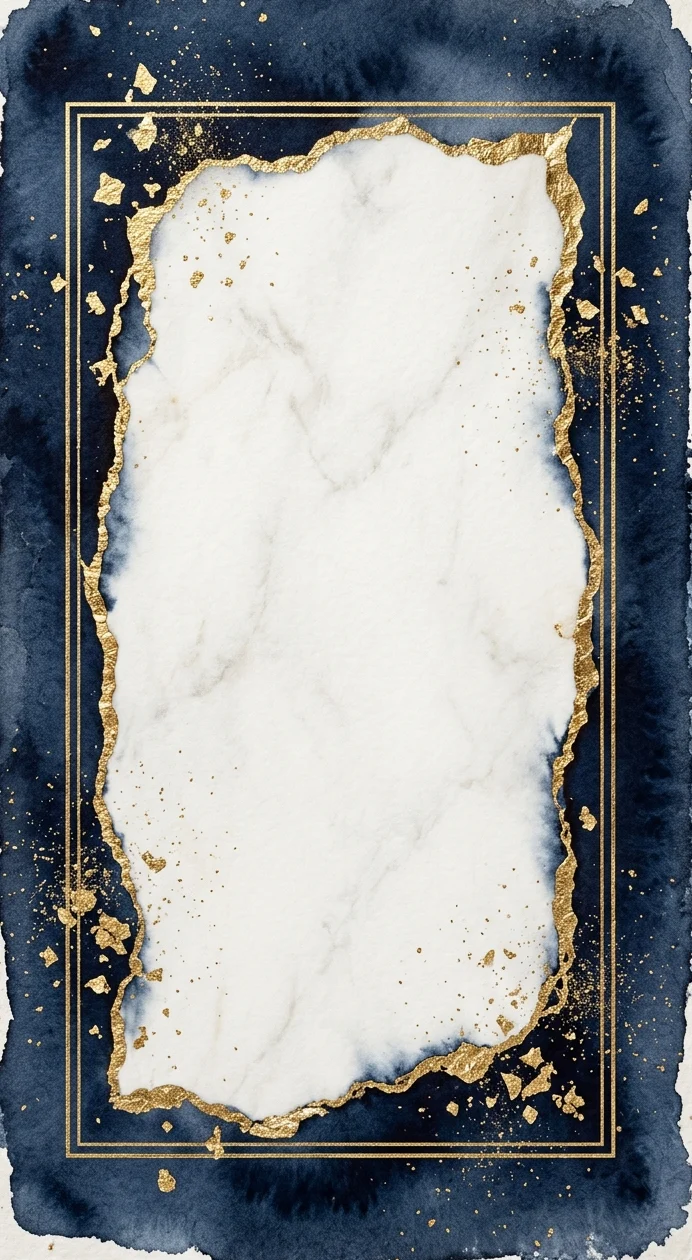
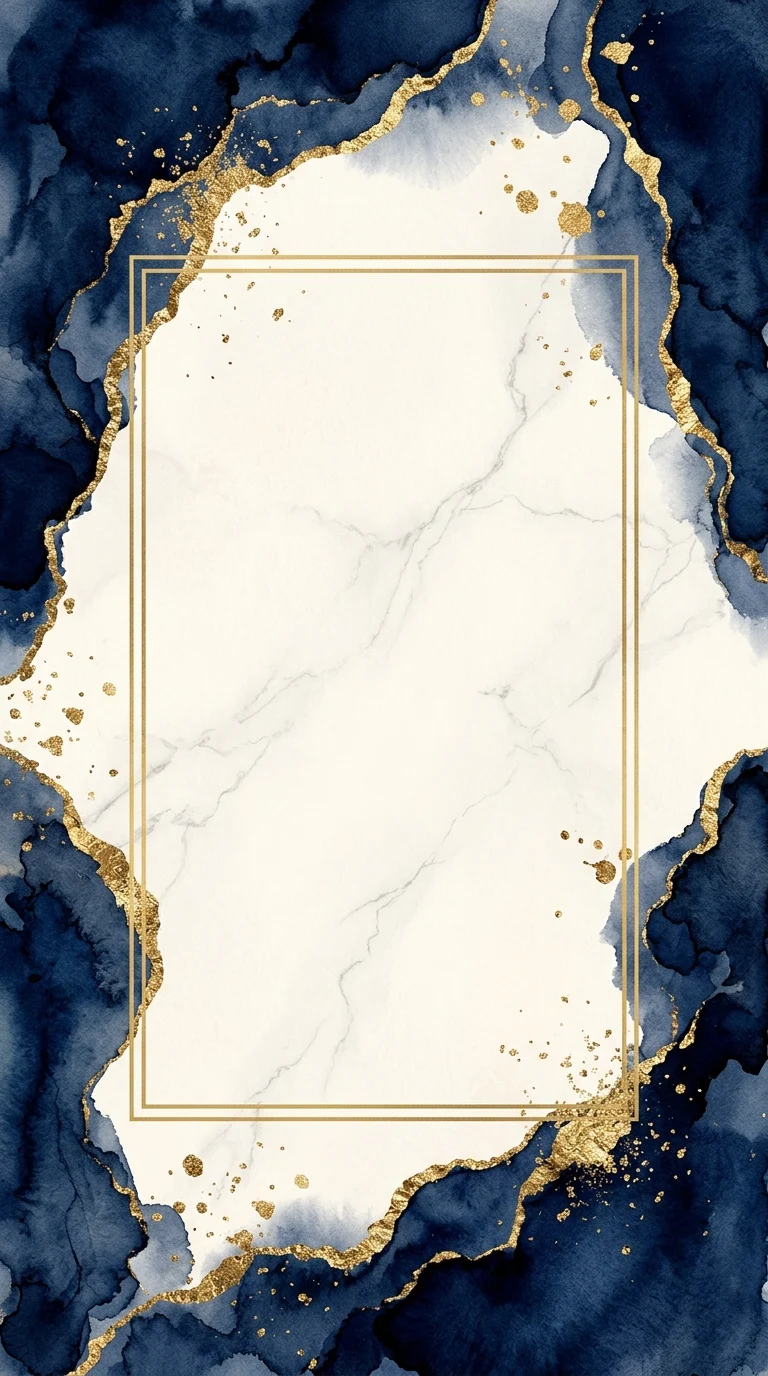
feat: fondos v3 sin estirar, terciopelo, marco dorado y telas que ondean

diff --git a/src/app/globals.css b/src/app/globals.css
@@ -465,3 +465,59 @@ html.io-unavailable main [style*="translate"] {
 .div-oro img { width: min(78vw, 340px); height: auto; filter: drop-shadow(0 2px 4px rgba(11,26,61,.18)); animation: divShine 5s ease-in-out infinite; }
 @keyframes divShine { 0%,100% { filter: drop-shadow(0 2px 4px rgba(11,26,61,.18)) brightness(1); } 50% { filter: drop-shadow(0 0 10px rgba(212,175,55,.55)) brightness(1.12); } }
 @media (prefers-reduced-motion: reduce) { .div-oro img { animation: none; } }
+
+/* ══ v3: fondos sin estirar ═══════════════════════════════════
+   Claros: tira con orillas azules/oro repetida hacia abajo (espejada = sin costura).
+   Oscuros: terciopelo en mosaico + esquinas doradas + marco dibujado en CSS. */
+.ink-hero::before { background: url(/portada-marco.webp) center top / 112% calc(100% - var(--fade) * .6) no-repeat, #0B1A3D; }
+@media (min-width: 700px) { .ink-hero::before { background-size: 100% calc(100% - var(--fade) * .6); } }
+.ink-oval::before, .ink-soft::before, .ink-soft-b::before { background: url(/marco-tira.webp) center top / 100% auto repeat-y, #F5F3EF; }
+.ink-soft-b::before { background-position: center 40%; }
+.ink-oval, .ink-soft, .ink-soft-b { padding-left: 58px !important; padding-right: 58px !important; }
+
+.ink-dark { --fade: 190px; --cn: 110px; --side: 14px; }
+.ink-dark::before {
+  background:
+    url(/esquina-tl.png) left var(--side) top var(--fade) / var(--cn) no-repeat,
+    url(/esquina-tr.png) right var(--side) top var(--fade) / var(--cn) no-repeat,
+    url(/esquina-bl.png) left var(--side) bottom var(--fade) / var(--cn) no-repeat,
+    url(/esquina-br.png) right var(--side) bottom var(--fade) / var(--cn) no-repeat,
+    radial-gradient(60% 40% at 50% 45%, rgba(46,74,150,.35), transparent 70%),
+    url(/terciopelo.webp) center / 448px repeat, #0B1A3D;
+  inset: 0; animation: none;
+}
+.ink-dark::after {
+  content: ""; position: absolute; z-index: -1; pointer-events: none;
+  top: calc(var(--fade) + var(--cn) * .255); bottom: calc(var(--fade) + var(--cn) * .255);
+  left: calc(var(--side) + var(--cn) * .255); right: calc(var(--side) + var(--cn) * .255);
+  border: 1px solid rgba(212,175,55,.75);
+  box-shadow: inset 0 0 0 calc(var(--cn) * .035) transparent, inset 0 0 0 calc(var(--cn) * .035 + 1px) rgba(212,175,55,.55);
+}
+.ink-dark-end::before {
+  background:
+    url(/esquina-tl.png) left var(--side) top var(--fade) / var(--cn) no-repeat,
+    url(/esquina-tr.png) right var(--side) top var(--fade) / var(--cn) no-repeat,
+    url(/esquina-bl.png) left var(--side) bottom 14px / var(--cn) no-repeat,
+    url(/esquina-br.png) right var(--side) bottom 14px / var(--cn) no-repeat,
+    radial-gradient(60% 40% at 50% 45%, rgba(46,74,150,.35), transparent 70%),
+    url(/terciopelo.webp) center / 448px repeat, #0B1A3D;
+}
+.ink-dark-end::after { bottom: calc(14px + var(--cn) * .255); }
+
+/* Telas que ondean en las esquinas */
+.drape { position: absolute; z-index: -1; pointer-events: none; width: min(52vw, 300px); aspect-ratio: 1; background: center / contain no-repeat;
+  filter: drop-shadow(0 12px 18px rgba(0,0,0,.45)); will-change: transform; }
+.drape-tl { background-image: url(/tela-tl.webp); left: -18px; top: calc(var(--fade) - 40px); transform-origin: 8% 6%; animation: drapeTL 7s ease-in-out infinite; }
+.drape-br { background-image: url(/tela-br.webp); right: -18px; bottom: calc(var(--fade) - 40px); transform-origin: 94% 94%; animation: drapeBR 8s ease-in-out infinite; }
+.ink-dark-end .drape-tl { top: calc(var(--fade) - 40px); }
+@keyframes drapeTL {
+  0%,100% { transform: rotate(0deg) skew(0deg, 0deg) scale(1, 1); }
+  30% { transform: rotate(-2.2deg) skew(1.5deg, -1deg) scale(1.02, .985); }
+  65% { transform: rotate(1.6deg) skew(-1deg, 1.2deg) scale(.99, 1.015); }
+}
+@keyframes drapeBR {
+  0%,100% { transform: rotate(0deg) skew(0deg, 0deg) scale(1, 1); }
+  35% { transform: rotate(2deg) skew(-1.4deg, 1deg) scale(1.015, .99); }
+  70% { transform: rotate(-1.5deg) skew(1deg, -1.2deg) scale(.99, 1.02); }
+}
+@media (prefers-reduced-motion: reduce) { .drape { animation: none; } }

diff --git a/src/app/_components/InvitationClient.tsx b/src/app/_components/InvitationClient.tsx
@@ -979,6 +979,8 @@ function Itinerario() {
 function Vestimenta() {
   return (
     <Section id="vestimenta" bg="transparent" className="fx ink-dark halo-dark lj-dc" style={{ paddingTop: 210, paddingBottom: 230 }}>
+      <span className="drape drape-tl" aria-hidden="true" />
+      <span className="drape drape-br" aria-hidden="true" />
       <InView style={{ maxWidth: 360, margin: "0 auto" }} amount={0.25}>
         <motion.span variants={riseSmall} className="lj-lbl">Etiqueta</motion.span>
         <MaskLine as="p" style={{ margin: "8px 0 30px" }} duration={1}>
@@ -1021,6 +1023,8 @@ function Vestimenta() {
 function AvisoSorpresa() {
   return (
     <Section bg="transparent" className="fx ink-dark halo-dark" style={{ position: "relative", overflow: "hidden", paddingTop: 230, paddingBottom: 260 }}>
+      <span className="drape drape-tl" aria-hidden="true" />
+      <span className="drape drape-br" aria-hidden="true" />
       {/* Partículas doradas flotantes */}
       {[...Array(12)].map((_, i) => (
         <motion.div
@@ -1281,6 +1285,7 @@ function Footer() {
       whileInView="show"
       viewport={{ once: true, amount: 0.4 }}
     >
+      <span className="drape drape-tl" aria-hidden="true" />
       <motion.p
         aria-hidden="true"
         variants={{ hidden: { opacity: 0, scale: 0.6 }, show: { opacity: 1, scale: 1, transition: { duration: 0.9, ease: EASE } } }}
